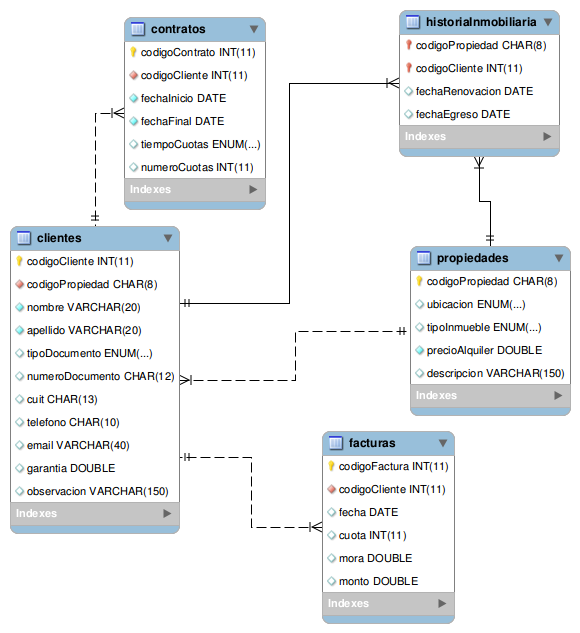
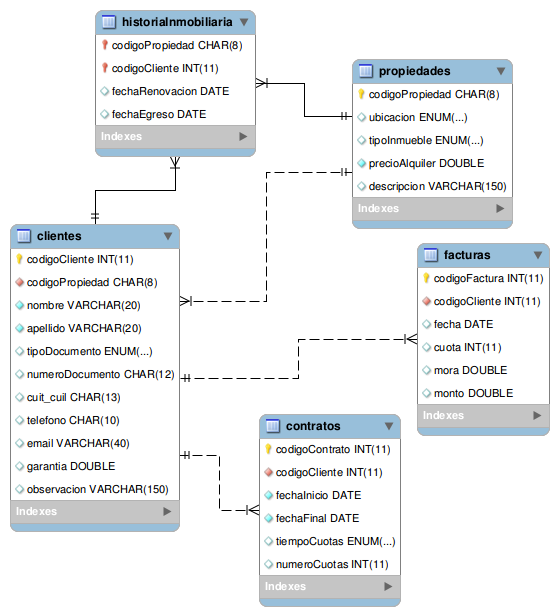
Avance en los repositories

Changed region(s): [[0.0, 0.0, 1.0, 0.987]]

diff --git a/TrabajoPracticoNro2/src/main/java/ar/inmobiliaria/alquileres/entities/Cliente.java b/TrabajoPracticoNro2/src/main/java/ar/inmobiliaria/alquileres/entities/Cliente.java
@@ -1,7 +1,6 @@
 package ar.inmobiliaria.alquileres.entities;
 import ar.inmobiliaria.alquileres.enums.TipoDocumento;
 
-// Preguntar si los documentos, telefonos y emails los dejo como Strings.
 public class Cliente {
     private int codigoCliente;
     private int codigoPropiedad;
@@ -9,7 +8,7 @@ public class Cliente {
     private String apellido;
     private TipoDocumento tipoDocumento;
     private String numeroDocumento;
-    private String cuit;
+    private String cuit_cuil;
     private String telefono;
     private String email;
     private double garantia;
@@ -17,28 +16,28 @@ public class Cliente {
 
     public Cliente() {
     }  
-    
-    public Cliente(int codigoPropiedad, String nombre, String apellido, TipoDocumento tipoDocumento, String numeroDocumento, String cuit, String telefono, String email, double garantia, String observacion) {
+
+    public Cliente(int codigoPropiedad, String nombre, String apellido, TipoDocumento tipoDocumento, String numeroDocumento, String cuit_cuil, String telefono, String email, double garantia, String observacion) {
         this.codigoPropiedad = codigoPropiedad;
         this.nombre = nombre;
         this.apellido = apellido;
         this.tipoDocumento = tipoDocumento;
         this.numeroDocumento = numeroDocumento;
-        this.cuit = cuit;
+        this.cuit_cuil = cuit_cuil;
         this.telefono = telefono;
         this.email = email;
         this.garantia = garantia;
         this.observacion = observacion;
     }
 
-    public Cliente(int codigoCliente, int codigoPropiedad, String nombre, String apellido, TipoDocumento tipoDocumento, String numeroDocumento, String cuit, String telefono, String email, double garantia, String observacion) {
+    public Cliente(int codigoCliente, int codigoPropiedad, String nombre, String apellido, TipoDocumento tipoDocumento, String numeroDocumento, String cuit_cuil, String telefono, String email, double garantia, String observacion) {
         this.codigoCliente = codigoCliente;
         this.codigoPropiedad = codigoPropiedad;
         this.nombre = nombre;
         this.apellido = apellido;
         this.tipoDocumento = tipoDocumento;
         this.numeroDocumento = numeroDocumento;
-        this.cuit = cuit;
+        this.cuit_cuil = cuit_cuil;
         this.telefono = telefono;
         this.email = email;
         this.garantia = garantia;
@@ -47,7 +46,7 @@ public class Cliente {
 
     @Override
     public String toString() {
-        return "Cliente{" + "codigoCliente=" + codigoCliente + ", codigoPropiedad=" + codigoPropiedad + ", nombre=" + nombre + ", apellido=" + apellido + ", tipoDocumento=" + tipoDocumento + ", numeroDocumento=" + numeroDocumento + ", cuit=" + cuit + ", telefono=" + telefono + ", email=" + email + ", garantia=" + garantia + ", observacion=" + observacion + '}';
+        return "Cliente{" + "codigoCliente=" + codigoCliente + ", codigoPropiedad=" + codigoPropiedad + ", nombre=" + nombre + ", apellido=" + apellido + ", tipoDocumento=" + tipoDocumento + ", numeroDocumento=" + numeroDocumento + ", cuit_cuil=" + cuit_cuil + ", telefono=" + telefono + ", email=" + email + ", garantia=" + garantia + ", observacion=" + observacion + '}';
     }
 
     public int getCodigoCliente() {
@@ -98,12 +97,12 @@ public class Cliente {
         this.numeroDocumento = numeroDocumento;
     }
 
-    public String getCuit() {
-        return cuit;
+    public String getCuit_cuil() {
+        return cuit_cuil;
     }
 
-    public void setCuit(String cuit) {
-        this.cuit = cuit;
+    public void setCuit_cuil(String cuit_cuil) {
+        this.cuit_cuil = cuit_cuil;
     }
 
     public String getTelefono() {

diff --git a/TrabajoPracticoNro2/src/main/java/ar/inmobiliaria/alquileres/repositories/jdbc/PropiedadRepository.java b/TrabajoPracticoNro2/src/main/java/ar/inmobiliaria/alquileres/repositories/jdbc/PropiedadRepository.java
@@ -1,0 +1,77 @@
+package ar.inmobiliaria.alquileres.repositories.jdbc;
+import ar.inmobiliaria.alquileres.entities.Propiedad;
+import ar.inmobiliaria.alquileres.enums.TipoInmueble;
+import ar.inmobiliaria.alquileres.enums.Ubicacion;
+import ar.inmobiliaria.alquileres.repositories.interfaces.I_PropiedadesRepository;
+import java.sql.Connection;
+import java.sql.PreparedStatement;
+import java.sql.ResultSet;
+import java.util.List;
+
+public class PropiedadRepository implements I_PropiedadesRepository {
+    private List<Propiedad> list;
+    private Connection conn;
+    
+    public PropiedadRepository(List<Propiedad> list) {this.list = list;   }
+    public PropiedadRepository(Connection conn) {    this.conn = conn;    }
+
+    @Override
+    public void save(Propiedad propiedad) {
+        if(propiedad==null) return;
+        try (PreparedStatement ps=conn.prepareStatement(
+            "insert into propiedades (codigoPropiedad, ubicacion, tipoInmueble, precioAlquiler, descripcion) values (?,?,?,?)",
+            PreparedStatement.RETURN_GENERATED_KEYS
+        )) {
+            ps.setInt(1, propiedad.getCodigoPropiedad());
+            ps.setString(2,propiedad.getUbicacion().toString());
+            ps.setString(3, propiedad.getTipoInmueble().toString());
+            ps.setDouble(4,propiedad.getPrecioAlquiler());
+            ps.setString(5, propiedad.getDescripcion());
+            ps.execute();
+            ResultSet rs=ps.getGeneratedKeys();
+            if(rs.next()) propiedad.setCodigoPropiedad(rs.getInt(1));
+        } catch (Exception e) { e.printStackTrace(); }
+    }
+
+    @Override
+    public void remove(Propiedad propiedad) {
+        if(propiedad==null) return;
+        try (PreparedStatement ps=conn.prepareStatement(
+                "delete from propiedades where codigoPropiedad=?")) {
+            ps.setInt(1, propiedad.getCodigoPropiedad());
+            ps.execute();
+        } catch (Exception e) { e.printStackTrace(); }
+    }
+
+    @Override
+    public void update(Propiedad propiedad) {
+        if(propiedad==null) return;
+        try (PreparedStatement ps=conn.prepareStatement(
+            "update propiedades set ubicacion=?, tipoInmueble=?, precioAlquiler=?, descripcion=? where codigoPropiedad=?"
+        )) {
+            ps.setString(1, propiedad.getUbicacion().toString());
+            ps.setString(2, propiedad.getTipoInmueble().toString());
+            ps.setDouble(3, propiedad.getPrecioAlquiler());
+            ps.setString(4, propiedad.getDescripcion());
+            ps.setInt(5, propiedad.getCodigoPropiedad());
+            ps.execute();
+        } catch (Exception e) { e.printStackTrace(); }
+    }
+
+    @Override
+    public List<Propiedad> getList() {
+        try (ResultSet rs=conn.createStatement().executeQuery("select * from propiedades");) {
+            while(rs.next()){
+                list.add(new Propiedad(
+                        rs.getInt("codigoPropiedad"),
+                        Ubicacion.valueOf(rs.getString("ubicacion")),
+                        TipoInmueble.valueOf(rs.getString("tipoInmueble")),
+                        rs.getDouble("precioAlquiler"),
+                        rs.getString("descripcion")
+                ));
+            }
+        } catch (Exception e) { e.printStackTrace(); }
+        return list;
+    }
+    
+}

diff --git a/TrabajoPracticoNro2/src/main/java/ar/inmobiliaria/alquileres/repositories/interfaces/I_PropiedadesRepository.java b/TrabajoPracticoNro2/src/main/java/ar/inmobiliaria/alquileres/repositories/interfaces/I_PropiedadesRepository.java
@@ -1,0 +1,56 @@
+package ar.inmobiliaria.alquileres.repositories.interfaces;
+import ar.inmobiliaria.alquileres.entities.Propiedad;
+import ar.inmobiliaria.alquileres.enums.TipoInmueble;
+import ar.inmobiliaria.alquileres.enums.Ubicacion;
+import java.util.Comparator;
+import java.util.List;
+import java.util.stream.Collectors;
+
+public interface I_PropiedadesRepository {
+    void save(Propiedad propiedad);         // insert into cursos () 
+    void remove(Propiedad propiedad);       // delete from cursos
+    void update(Propiedad propiedad);       // update cursos
+    List<Propiedad>getList();            // select * from cursos
+    
+    default Propiedad getByCodigo(int codigo){
+        return getList()
+                .stream()
+                .filter(c->c.getCodigoPropiedad()==codigo)
+                .findFirst()
+                .orElse(new Propiedad());
+    }
+    
+    default List<Propiedad> getByUbicacion (Ubicacion ubicacion) {
+        return getList()
+                .stream()
+                .filter(u->u.getUbicacion() == ubicacion)
+                .collect(Collectors.toList());
+    }
+    
+    default List<Propiedad> getBytipoInmueble (TipoInmueble tipoInmueble) {
+        return getList()
+                .stream()
+                .filter(u->u.getTipoInmueble()== tipoInmueble)
+                .collect(Collectors.toList());
+    }
+    
+      default Propiedad max() {
+       return getList()
+               .stream()
+               .max(Comparator.comparingDouble(Propiedad::getPrecioAlquiler))
+               .get();
+   }
+   
+   default Propiedad min() {
+       return getList()
+               .stream()
+               .min(Comparator.comparingDouble(Propiedad::getPrecioAlquiler))
+               .get();
+   }
+   
+   default int getCount() {
+       return (int) getList()
+               .stream()
+               .count();
+   }
+}

diff --git a/TrabajoPracticoNro2/src/main/java/ar/inmobiliaria/alquileres/enums/Ubicacion.java b/TrabajoPracticoNro2/src/main/java/ar/inmobiliaria/alquileres/enums/Ubicacion.java
@@ -1,4 +1,2 @@
 package ar.inmobiliaria.alquileres.enums;
-public enum Ubicacion { Santa_Clara, Los_Angeles, San_Martin; }
-// Preguntar si afecta en algo escribir el enumerado diferente de la base de datos
-// Afecta las tildes y espacios?
+public enum Ubicacion { Santa_Clara, Los_Angeles, San_Martin } // En la BD hay espacios

diff --git a/TrabajoPracticoNro2/src/main/java/ar/inmobiliaria/alquileres/enums/TipoInmueble.java b/TrabajoPracticoNro2/src/main/java/ar/inmobiliaria/alquileres/enums/TipoInmueble.java
@@ -1,2 +1,2 @@
 package ar.inmobiliaria.alquileres.enums;
-public enum TipoInmueble { Habitacion, Casa, Local_Comercial, Departamento; }
+public enum TipoInmueble {Habitacion, Casa, Local_Comercial, Departamento } // En la BD esta con espacios

diff --git a/TrabajoPracticoNro2/src/main/java/ar/inmobiliaria/alquileres/enums/TiempoCuotas.java b/TrabajoPracticoNro2/src/main/java/ar/inmobiliaria/alquileres/enums/TiempoCuotas.java
@@ -1,2 +1,2 @@
 package ar.inmobiliaria.alquileres.enums;
-public enum TiempoCuotas { Quincenal, Mensual, Bimestral, Trimestral, Semestral, Anual; }
+public enum TiempoCuotas { Quincenal, Mensual, Bimestral, Trimestral, Semestral, Anual }

diff --git a/TrabajoPracticoNro2/src/main/java/ar/inmobiliaria/alquileres/enums/TipoDocumento.java b/TrabajoPracticoNro2/src/main/java/ar/inmobiliaria/alquileres/enums/TipoDocumento.java
@@ -1,2 +1,2 @@
 package ar.inmobiliaria.alquileres.enums;
-public enum TipoDocumento { DNI, PASAPORTE }
+public enum TipoDocumento { DNI, Pasaporte } // DNI esta en mayuscula en la BD

diff --git a/TrabajoPracticoNro2/src/main/java/ar/inmobiliaria/alquileres/tests/Test_PropiedadRepository.java b/TrabajoPracticoNro2/src/main/java/ar/inmobiliaria/alquileres/tests/Test_PropiedadRepository.java
@@ -1,0 +1,6 @@
+package ar.inmobiliaria.alquileres.tests;
+public class Test_PropiedadRepository {
+    public static void main(String[] args) {
+        
+    }
+}
